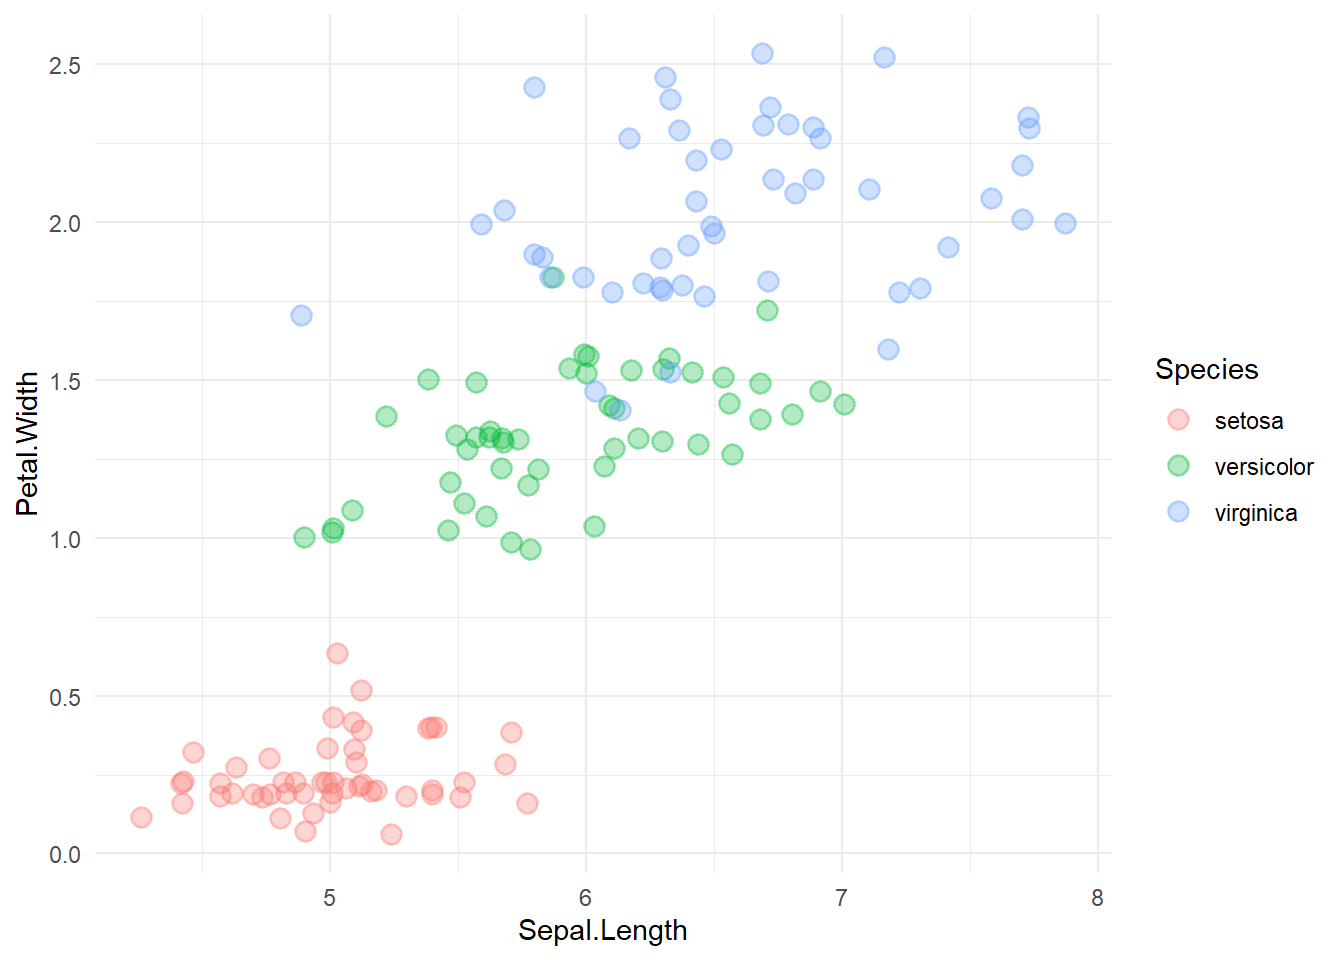
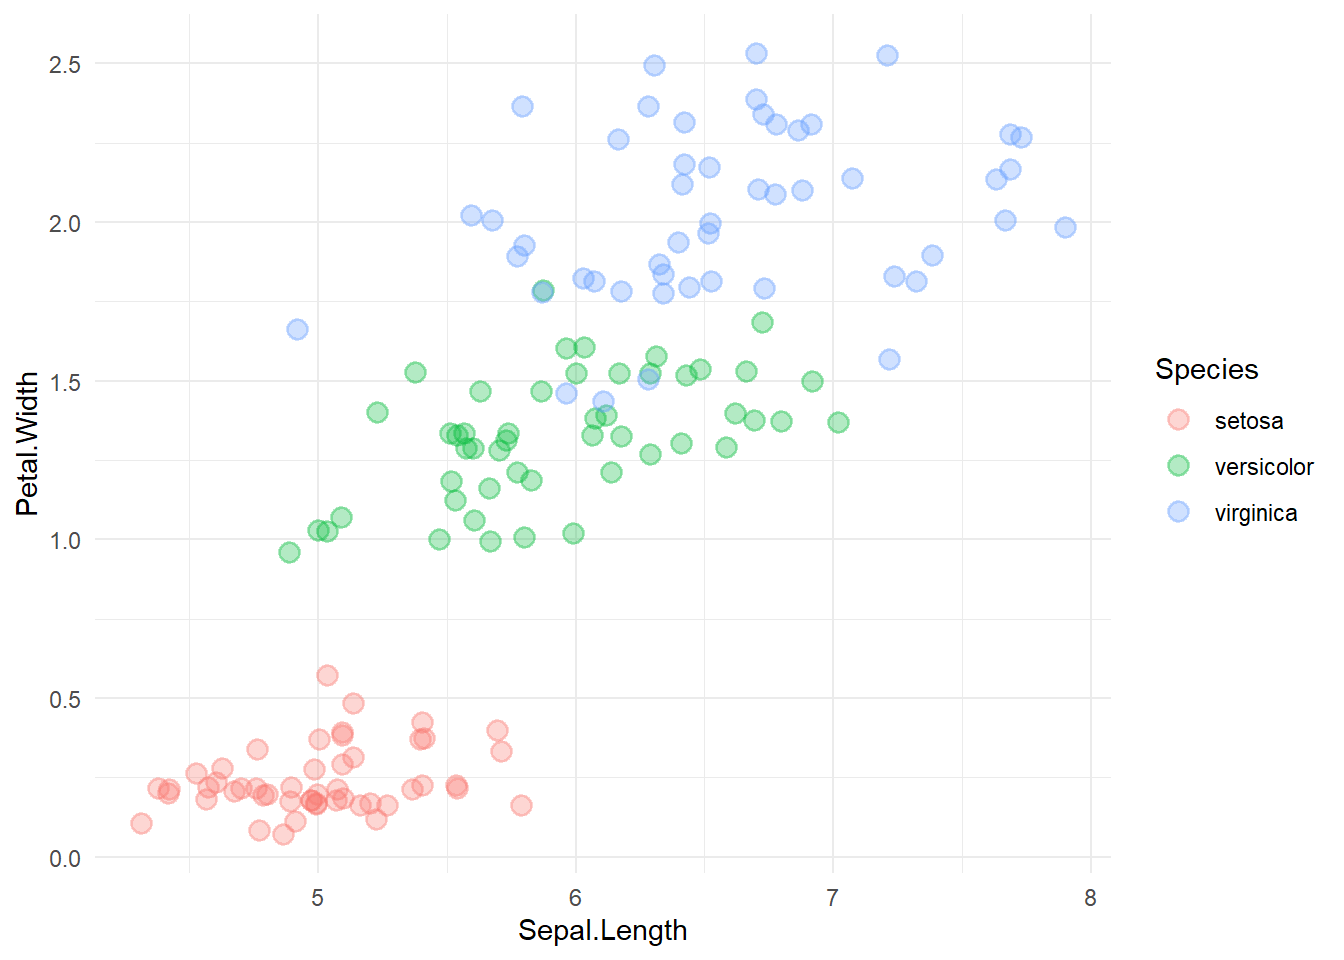
actualizacion excel XY

diff --git a/docs/posts/excel-xy/index.html b/docs/posts/excel-xy/index.html
@@ -281,7 +281,7 @@ code span.wa { color: #60a0b0; font-weight: bold; font-style: italic; } /* Warni
 <p>Para conseguir nuestro objetivo, tenemos que volver a la tabla original y crear dos nuevas columnas, que se corresponderán con los ejes X e Y. Calcularemos los nuevos valores mediante una fórmula que sume un valor aleatorio suficientemente largo al valor original como para que la probabilidad de que coincidan dos valores sea casi cero. Para evitar modificar el valor original, dividimos el valor aleatorio por un exponente de 10 tal que la serie de decimales que obtenemos esté siempre por detrás del último valor decimal de la serie original. Por ejemplo, si nuestros valores tienen un decimal, dividimos el valor aleatorio entre 100. Las fórmulas que utilizo son <code>=[@[Sepal.Length]]+ALEATORIO()/100</code>y <code>=[@[Petal.Width]]+ALEATORIO()/100</code>. Este método tiene un efecto semejante a la utilización de <code>jitter</code>en <code>ggplot</code>. Para minimizar el efecto de <code>jitter</code> no hay más que dividir el número aleatorio por un factor mayor, según la magnitud del número. En nuestros datos, un factor de 10000 nos proporciona un gráfico XY sin ninguna distorsión, aunque con solapamiento en bastantes puntos.</p>
 <p>Esta es la tabla modificada:</p>
 <p><img src="excel-tabla-iris-modif.png" class="img-fluid"></p>
-<p>Vemos que los valores de las dos columnas añadidas son idénticos en las dos primeras cifras significativas al valor de la columna original (el valor original entero más un decimal); el segundo decimal es un cero, y a continuación viene la secuencia de números aleatorios. Dado que esta secuencia comienza en el tercer decimal, el efecto sobre la posición de cada valor en el gráfico será prácticamente indetectable y no la falseará.</p>
+<p>Vemos que los valores de las dos columnas añadidas son idénticos en las dos primeras cifras significativas al valor de la columna original (el valor original entero más un decimal); el segundo decimal es un cero, y a continuación viene la secuencia de números aleatorios. Dado que esta secuencia comienza en el tercer decimal, el efecto de <code>jitter</code>sobre la posición de cada valor en el gráfico será muy reducido.</p>
 <p>Insertamos una nueva tabla dinámica a partir de esta tabla, utilizando en filas y en valores las nuevas variables calculadas; verificamos mediante la fórmula <code>Recuento</code> que ahora ya no hay valores acumulados, cada pareja de valores es única.</p>
 <p><img src="excel-td-2-recuento.png" class="img-fluid"></p>
 <p>Sustituimos la fórmula <code>Recuento</code>por la fórmula <code>Promedio</code>y repetimos todo el proceso que hemos hecho anteriormente:</p>

diff --git a/docs/index.html b/docs/index.html
@@ -158,7 +158,7 @@ ul.task-list li input[type="checkbox"] {
 
 <div class="quarto-listing quarto-listing-container-default" id="listing-listing">
 <div class="list quarto-listing-default">
-<div class="quarto-post image-right" data-index="0" data-listing-date-sort="1674860400000" data-listing-file-modified-sort="1674903577004" data-listing-reading-time-sort="11.89">
+<div class="quarto-post image-right" data-index="0" data-listing-date-sort="1674860400000" data-listing-file-modified-sort="1674904147502" data-listing-reading-time-sort="11.875">
 <div class="thumbnail">
 <p><a href="./posts/excel-xy/index.html"> <img src="./posts/excel-xy/excel-tabla-iris.png" class="thumnail-image"> </a></p>
 </div>
